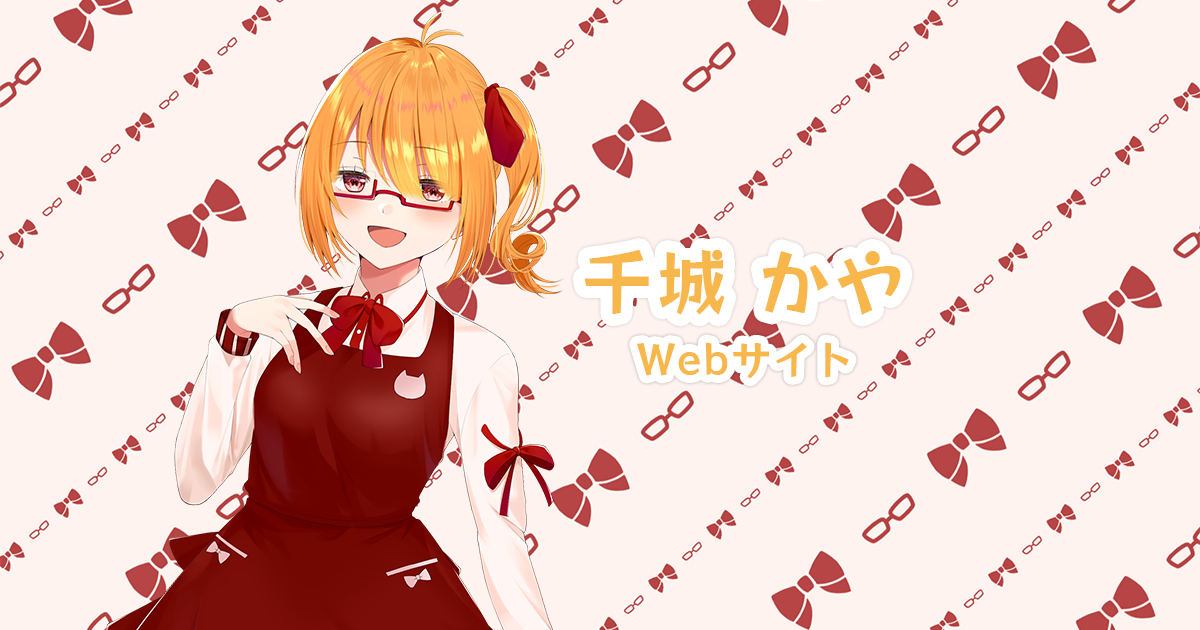
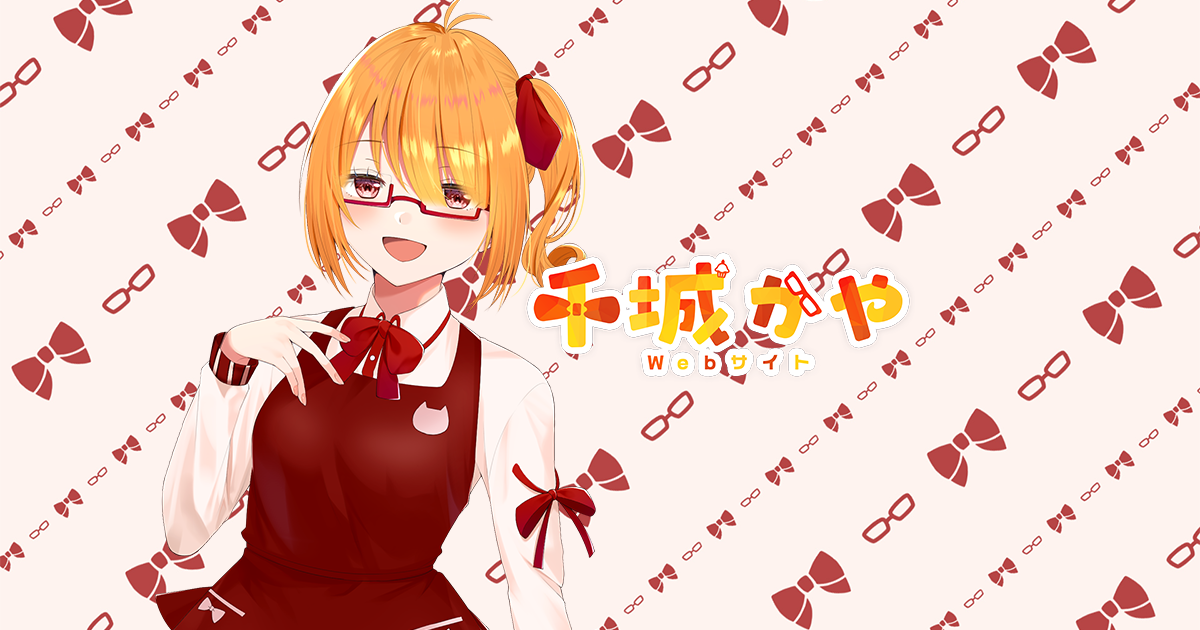
✨ Webサイトロゴの更新

Changed region(s): [[0.0617, 0.0, 0.7708, 1.0], [0.4625, 0.9952, 0.4933, 1.0], [0.4317, 0.6032, 0.4625, 0.6333]]

diff --git a/src/components/common/BrandLogo.vue b/src/components/common/BrandLogo.vue
@@ -1,6 +1,6 @@
 <template>
   <span class="logo">
-    <img src="@/assets/images/common/logo.png" alt="千城かや Webサイト" />
+    <img src="@/assets/images/common/logo_web.png" alt="千城かや Webサイト" />
   </span>
 </template>
 
@@ -14,7 +14,7 @@
   &::before {
     content: '';
     display: block;
-    padding-top: calc(120px / 335px) * 100%;
+    padding-top: calc(600px / 1600px) * 100%;
   }
 
   img {
